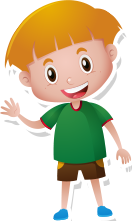
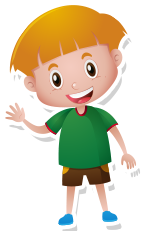
Change memory match boy image sizes on mobile

Changed region(s): [[0.0, 0.0, 1.0, 1.0], [0.2727, 0.4344, 0.3333, 0.4887]]

diff --git a/css/style.css b/css/style.css
@@ -877,7 +877,7 @@ main {
 }
 .girl {
     position: absolute;
-    left: -40px;
+    left: -25px;
     bottom: -30px;
 }
 .fruit_fact {
@@ -1623,7 +1623,7 @@ main {
     .girl {
         left: 0;
         bottom: 0;
-        height: 90px;
+        height: 130px;
     }
     .fruit_fact_info {
         font-size: 14px;
